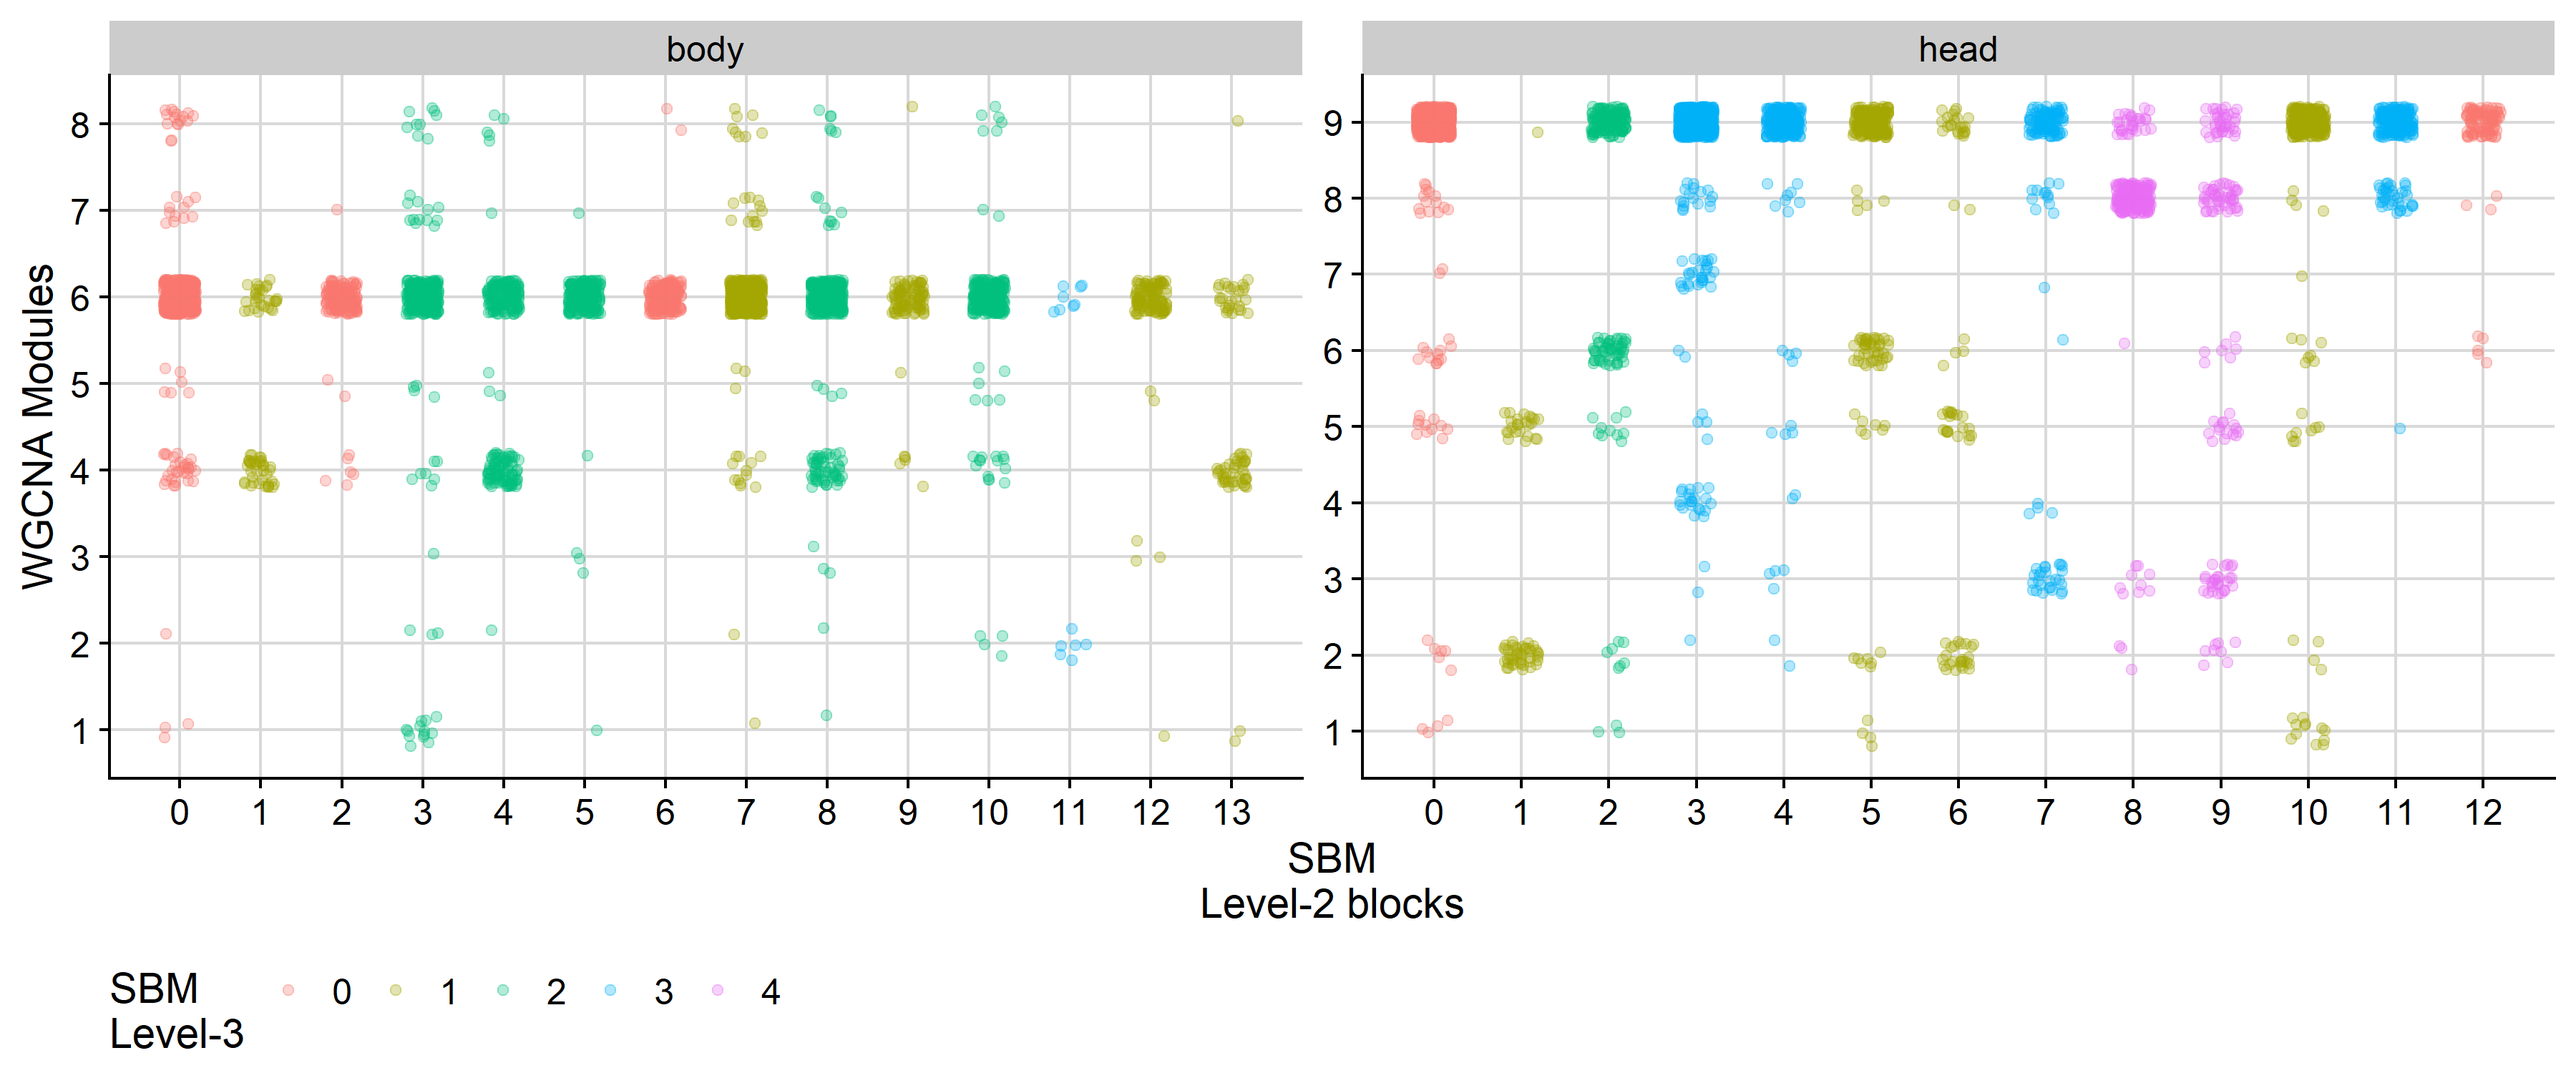
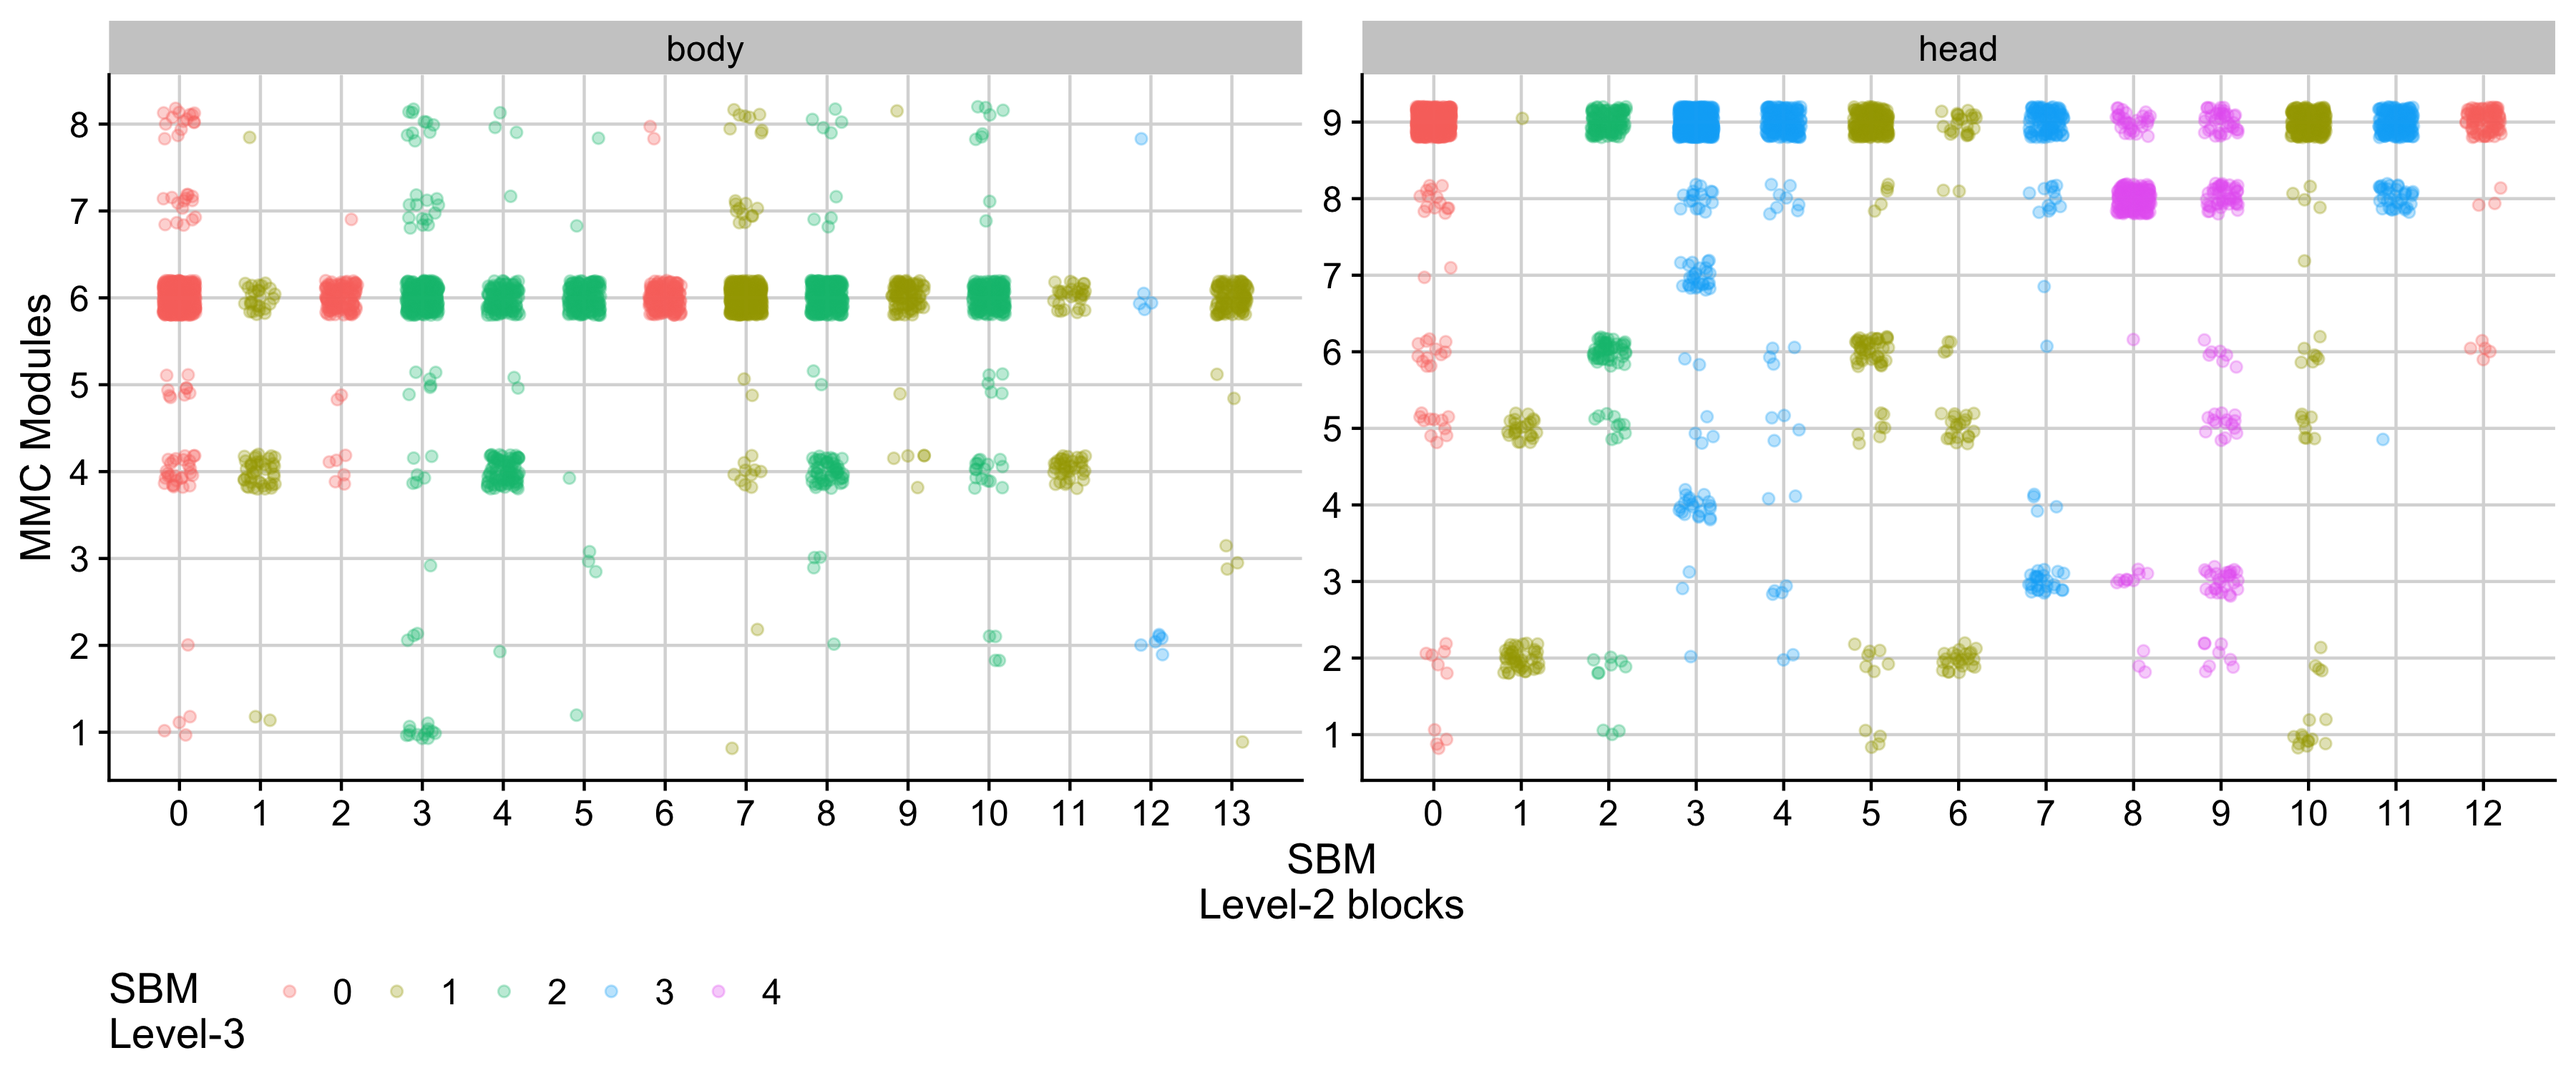
More results and figures

diff --git a/main.md b/main.md
@@ -8,10 +8,10 @@ mainfontoptions:
 - Numbers=Lowercase
 - Numbers=Proportional
 geometry:
-- top=30mm
+- top=20mm
 - left=25mm
 - right=25mm
-- bottom=30mm
+- bottom=20mm
 ---
 
 # Intro
@@ -89,7 +89,7 @@ where $B$ is the number of blocks. Using this definition, $M = \frac{1}{B} \sum_
 
 ## WGCNA and MMC
 
-We use WGCNA to cluster the genes into modules using the topological overlap measure (TOM) similarity with a soft threshold of 6 in a signed similarity measure. WGCNA produces modules by cutting the hierarchical clustering tree at different heights, and we use the dynamic cutting option to create the modules. We use a signed network (as opposed to ignoring the sign of the correlation between genes) because inspection of the gene network graph reveals large blocks of correlations linked by negative correlations in our data, suggesting large scale structure that would be obscured by using the unsigned method. Unsigned similarity has been shown to lead to more robust modules [@Mason2009-ej], and the SBM can use the sign of the correlation in the clustering. MMC has no option to use the sign of the correlation, so we use the absolute value of the Spearman correlations.
+We use WGCNA to cluster the genes into modules using the topological overlap measure (TOM) similarity with a soft threshold of 6 in a signed similarity measure. WGCNA produces modules by cutting the hierarchical clustering tree at different heights, and we use the dynamic cutting option to create the modules. We use a signed network (as opposed to ignoring the sign of the correlation between genes) because inspection of the gene network graph reveals large blocks of correlations linked by negative correlations in our data, suggesting large scale structure that would be obscured by using the unsigned method. Unsigned similarity has been shown to lead to more robust modules [@Mason2009-ej], and in tunning WGCNA we were able to cluster more genes and find more modules using the signed method. MMC has no option to use the sign of the correlation, so we use the absolute value of the Spearman correlations.
 
 ## Gene Ontology enrichment
 
@@ -105,12 +105,26 @@ Gene clustering for all methods is presented in table S1. Using the SBM, in both
 
 WGCNA partitioned 2717 genes into 9 modules in the body and 2032 genes into 8 in the head. WGCNA did not cluster 536 genes in the body and 1557 in the head. Given that the number of modules in WGCNA is somewhat similar to the number of blocks at level 2 of the SBM, we compare these two partitions in fig. @fig:wgcna_compare. Overall, the partitions are different, but there are some common patterns. For example, Level-2 blocks 0, 2 and 6 in the body are split between modules 1 and 4, and these blocks are all in the same Level-3 block 0, suggesting some similarity that could explain the WGCNA clustering. Also in the body genes, we find a similar patter for Level-2 blocks 3, 4 and 5, which are split between modules 2 and 3. In the head, Level-2 block 2 is all assigned to module 1. Level-2 blocks 0 and 12 are split between modules 4 and 6, and both are in Level-3 block 0. So, while the clustering is different, WGCNA and the SBM do capture some common signal.
 
+MMC failed to cluster most genes, placing almost all genes into the same large module. Given this poor performance on our data, we do not discuss MMC further and instead focus on comparing SBM to WGCNA.
+
 ![Comparison of the clustering in WGCNA and in levels 2 and 3 of the SBM for the gene expressions in the body (left) and the head (right). Each point corresponds to a gene. The x axis corresponds to the Level 2 SBM blocks, y axis the WGCNA modules. Colors correspond to the (coarser) level 3 of the SBM.](figures/WGCNA_comparison.png){#fig:wgcna_compare}
 
+## Modularity and assortativity
 
-### Gene Ontology enrichment
+Modularity and assortativity are markedly lower in the body (fig. @fig:modularity). Several blocks in the body have negative assortativity, and the maximum value of modularity is 0.04 at level 2 of the nested hierarchy. Even so, several blocks show GO enrichment across the distribution of assortativity. In the head, modularity increases at coarser levels of the nested hierarchy, with a peak at 0.3 in level 4. This is still a relatively low value, and illustrates how assuming the gene network should be modular can prevent us from finding an informative clustering. Most blocks in the head show positive assortativity, and again GO enrichment is present across the range. 
 
-The majority of blocks in SBM show some level of GO enrichment (Table 1). In particular, several of the Level-3 blocks show a remarkable consistency in their enrichment. For example, Level-3 block 0 in the head is related to neural signaling and sensory perception, with its daughter blocks at Level-2 (0 and 12) showing enrichment for: (Level-2 0) signal transduction, synapse organization, nervous system process, phototransduction, G protein-coupled receptor signaling pathway (12) neural development,  trans-synaptic signaling, behavior. Several of these enrichments are exclusive to one of the level-1 blocks. Perhaps the most surprising enrichment is for the blocks associated with translation, in which all of the ribosomal proteins are clustered almost exclusively in level-1 blocks in the body and in the head. Several other Level-2 and Level-1 blocks are readily identifiable as related to development, DNA transcription, cell respiration, cell cycle regulation, immune response. 
+
+![Assortativity in the SBM level-1 blocks and modularity for all nested levels. GO enriched blocks are show in yellow and appear all along the distribution of assortativity. Head modularity increases at upper levels, while body modularity is lower and peaks at level 2.](figures/assortativity.png){#fig:modularity}
+
+## Gene Ontology enrichment
+
+The majority of blocks in SBM show some level of GO enrichment (Table 1). In particular, several of the Level-3 blocks show a remarkable consistency in their enrichment. For example, Level-3 block 0 in the head is related to neural signaling and sensory perception, with its daughter blocks at Level-2 (0 and 12) showing enrichment for: (Level-2 0) signal transduction, synapse organization, nervous system process, phototransduction, G protein-coupled receptor signaling pathway (12) neural development,  trans-synaptic signaling, behavior. Several of these enrichments are exclusive to one of the level-1 blocks. Perhaps the most surprising enrichment is for the blocks associated with translation, in which all of the ribosomal proteins are clustered almost exclusively in level-1 blocks in the body and in the head. We discuss some notable blocks below. Several other Level-2 and Level-1 blocks are readily identifiable as related to development, DNA transcription, cell respiration, cell cycle regulation, immune response, sugar metabolism, among others. All WGCNA modules show GO enrichment. Supporting Information table 1 shows all GO enrichmentes for all SBM blocks and WGCNA modules. 
+
+### Individual clusters
+
+Level 2 block 0-0-0 in the head is one of the easiest to interpret, being entierly related to brain tissue function. Figure @fig:go_map shows the top 10 GO categories for each of the level-1 blocks in block 0-0-0, and the most neuronal enriched WGCNA grouping, module 4. The SBM blocks separate vesicle exocitosis, neuronal differentiation, phototransduction, synaptic signaling, and, interestingly, there is a block related to alternative mRNA splicing, which is though to be more common in brain tissues [@Su2018-nz]. WGCNA module 4 recovers some of this enrichment, but in a less granular way. Only the phototransduction part of the enrichment is separated in module 6. Several of these level-1 blocks (especially 0, 7 and 24) are among the most assortative (see fig. @fig:modularity and following section), and so are prime candidates for detection in WGCNA. The alternative splicing module has a much lower assortativity, and so its not surprising that WGCNA could not detect it.
+
+Some of the most specific enrichments in the SBM are the translation related blocks (Figure @fig:go_translation). In both body and head, ribossomal proteins are clustered in small and highly enriched level-1 blocks. Six level-1 blocks in the head and two in the body are composed of only ribossomal related protein genes. All are very specific, being composed of between 7-22 genes, and have low assortativity, varying between $-0.001$ and $0.07$ and with a mean assortativity of $0.02$. There is no equivalent module in WGCNA, but all of the translation related genes are in the same much larger modules (module 1 in the head, 449 genes; and module 5 in the body, 324 genes), both of which show enrichment for translation but also for several other categories. 
 
 The SBM is also able to capture exceedingly faint biological signals. For example, level-1 blocks 55 in the head and 31 in the body are similar in that they are visibly less connected to the rest of the blocks, as we can see in fig. @fig:Emats. They are both very small, being composed of 17 and 10 genes, respectively. This similarity in confirmed by the common GO enrichment for both blocks (immune response) and some common genes (Dpt - diptericin, Dro - drosocin).
 
@@ -121,16 +135,11 @@ body         68\% (39/57)     92\%  (13/14)     100\% (4/4)  100\% (2/2)
       
 Table: Number of blocks at each level that show significant GO enrichment at the 5\% FDR level with a minimum of 4 genes in the enriched set.
 
-![GO in a neuro related level 2 block in the head (0-0-0). Panels show the corresponding level 1 blocks. Labeled nodes are the top 10 GO categories by number of genes, grey unlabeled nodes correspond are the genes.](figures/000_go_map.png){#fig:go_map}
+![Enriched GO categories in a level-2 block in the head (0-0-0), related to neural signaling. Panels show the corresponding level-1 blocks. Labeled nodes are the top 10 GO categories by number of genes, gray unlabeled nodes are genes linked to the GO categories. The last panel shows the most similar WGCNA module, which also contains signaling related genes, but at a lower resolution and fails to cluster the phototransduction genes, which are in module 6.](figures/000_go_map.png){#fig:go_map}
 
-\newpage
-
-### Modularity and assortativity
-
-Modularity and assortativity are markedly lower in the body (fig. @fig:modularity). Several blocks in the body have negative assortativity, and the maximum value of modularity is 0.04 at level 2 of the nested hierarchy. Even so, several blocks show GO enrichment across the distribution of assortativity. In the head, modularity increases at coarser levels of the nested hierarchy, with a peak at 0.3 in level 4. This is still a relatively low value, and illustrates how assuming the gene network should be modular can prevent us from finding an informative clustering. Most blocks in the head show positive assortativity, and again GO enrichment is present across the range. 
+![Enriched GO categories from translation related blocks for the Head and Body. Labeled nodes are the top 10 GO categories by number of genes, gray unlabeled nodes are genes linked to the GO categories.](figures/Translation_go_map.png){#fig:go_translation}
 
 
-![Assortativity in the SBM level-1 blocks and modularity for all nested levels. GO enriched blocks are show in yellow and appear all along the distribution of assortativity. Head modularity increases at upper levels, while body modularity is lower and peaks at level 2.](figures/assortativity.png){#fig:modularity}
 
 \newpage
 
